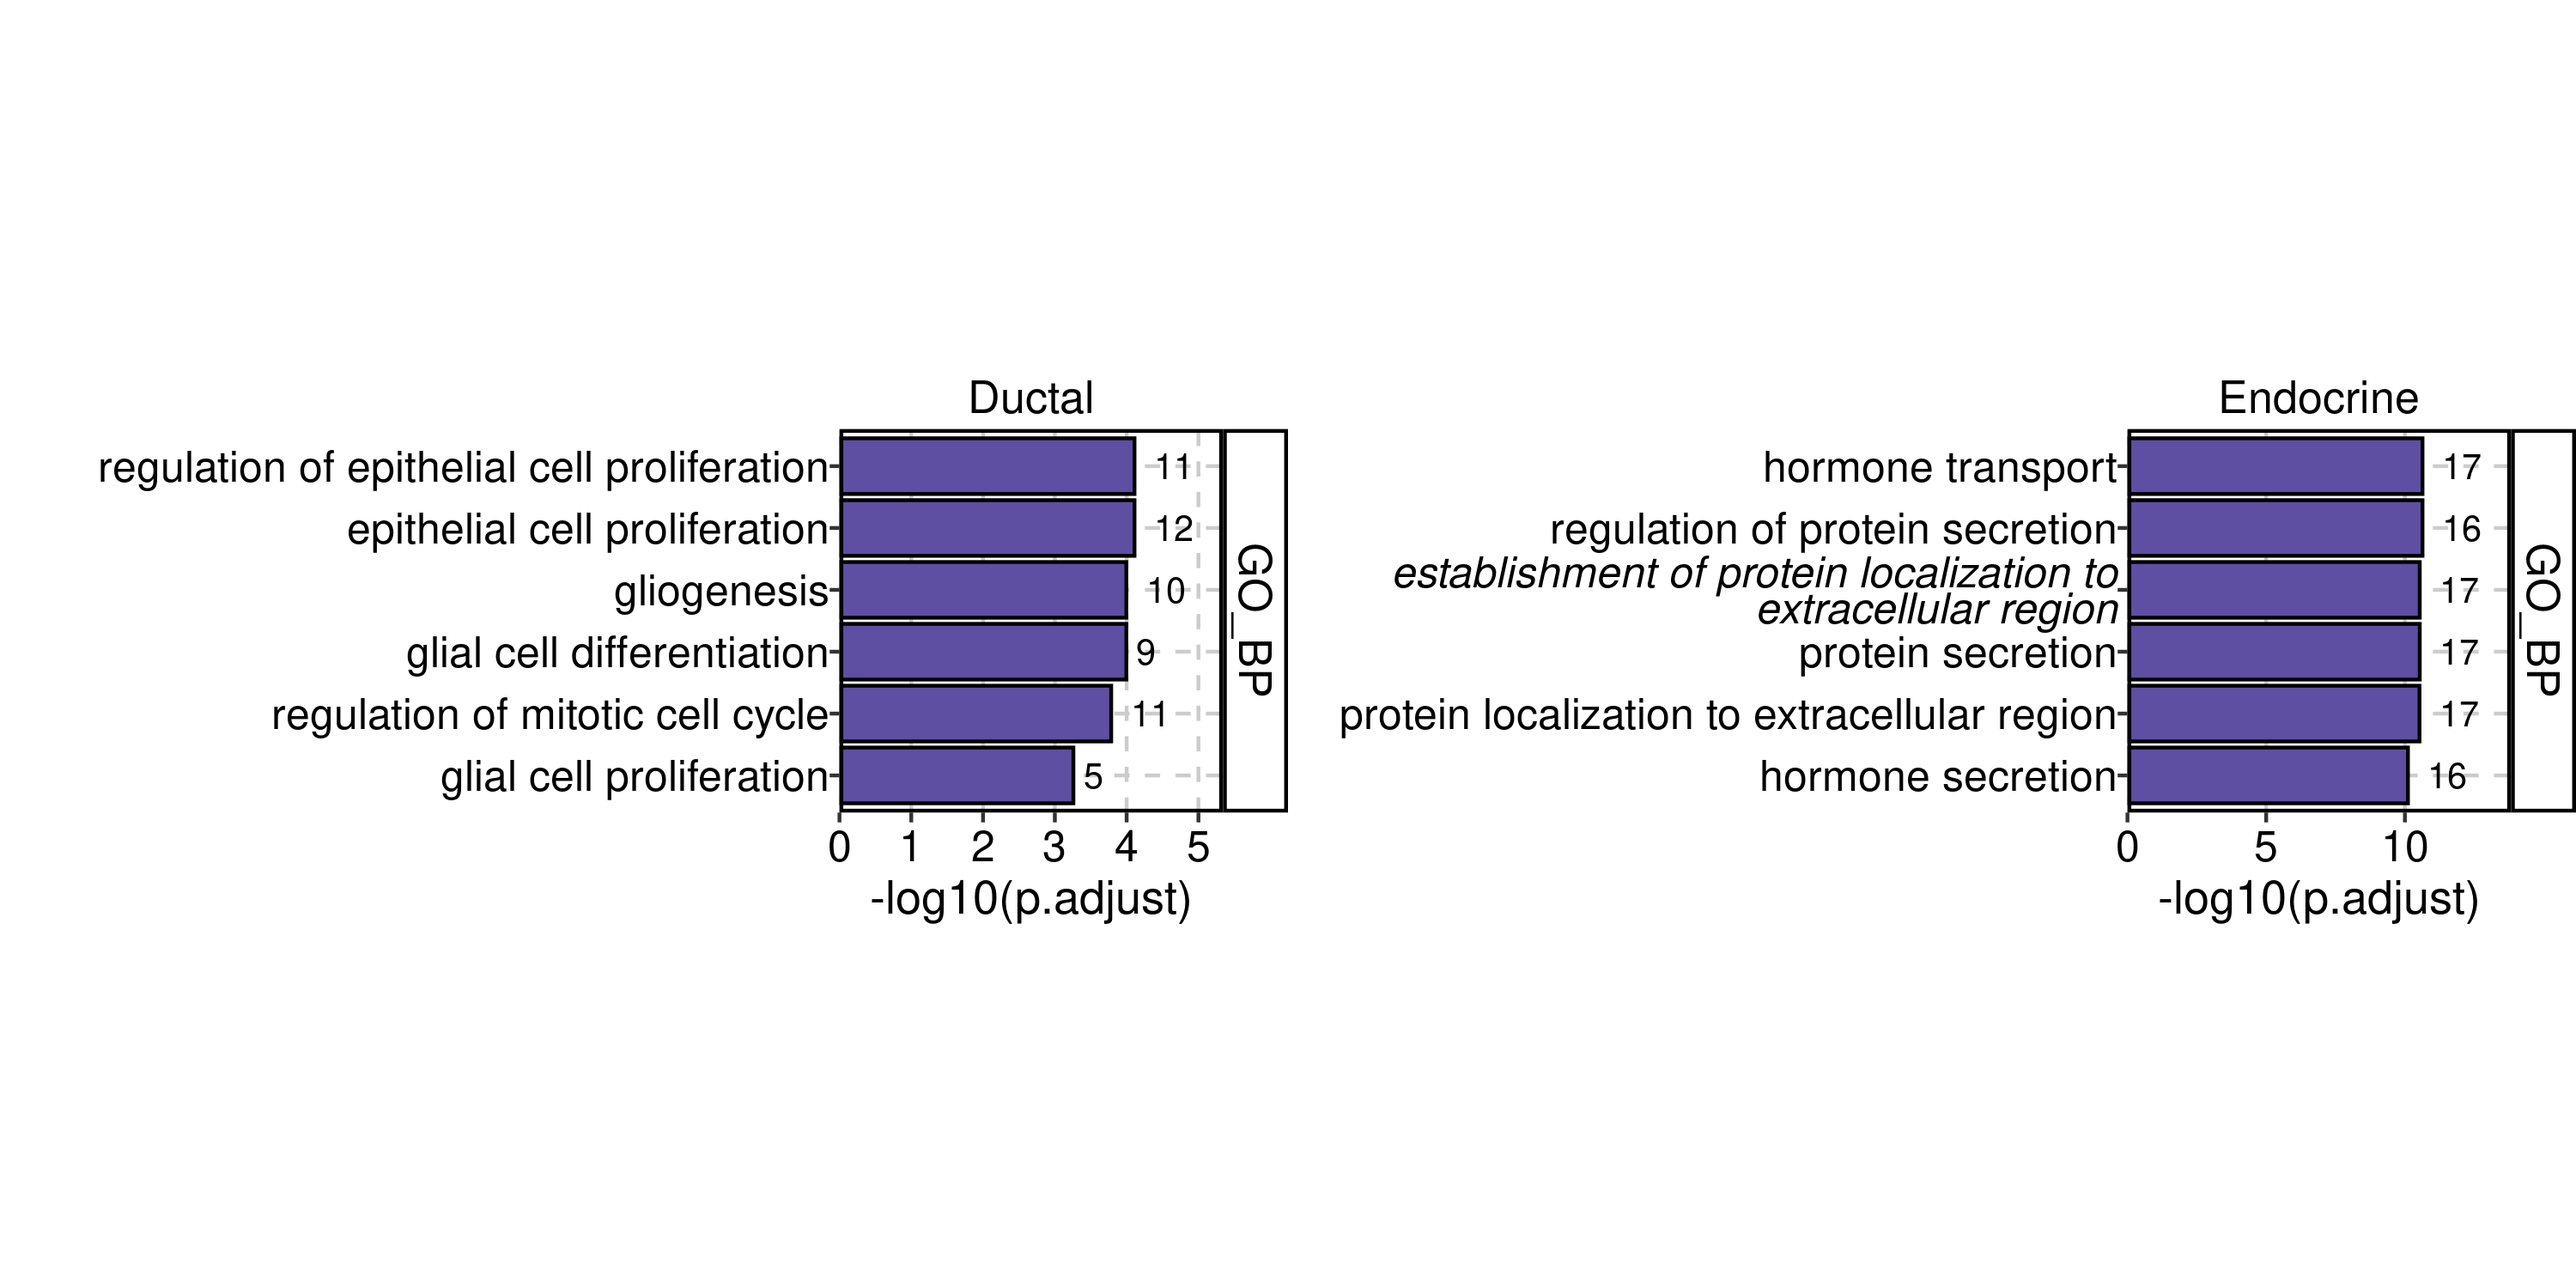
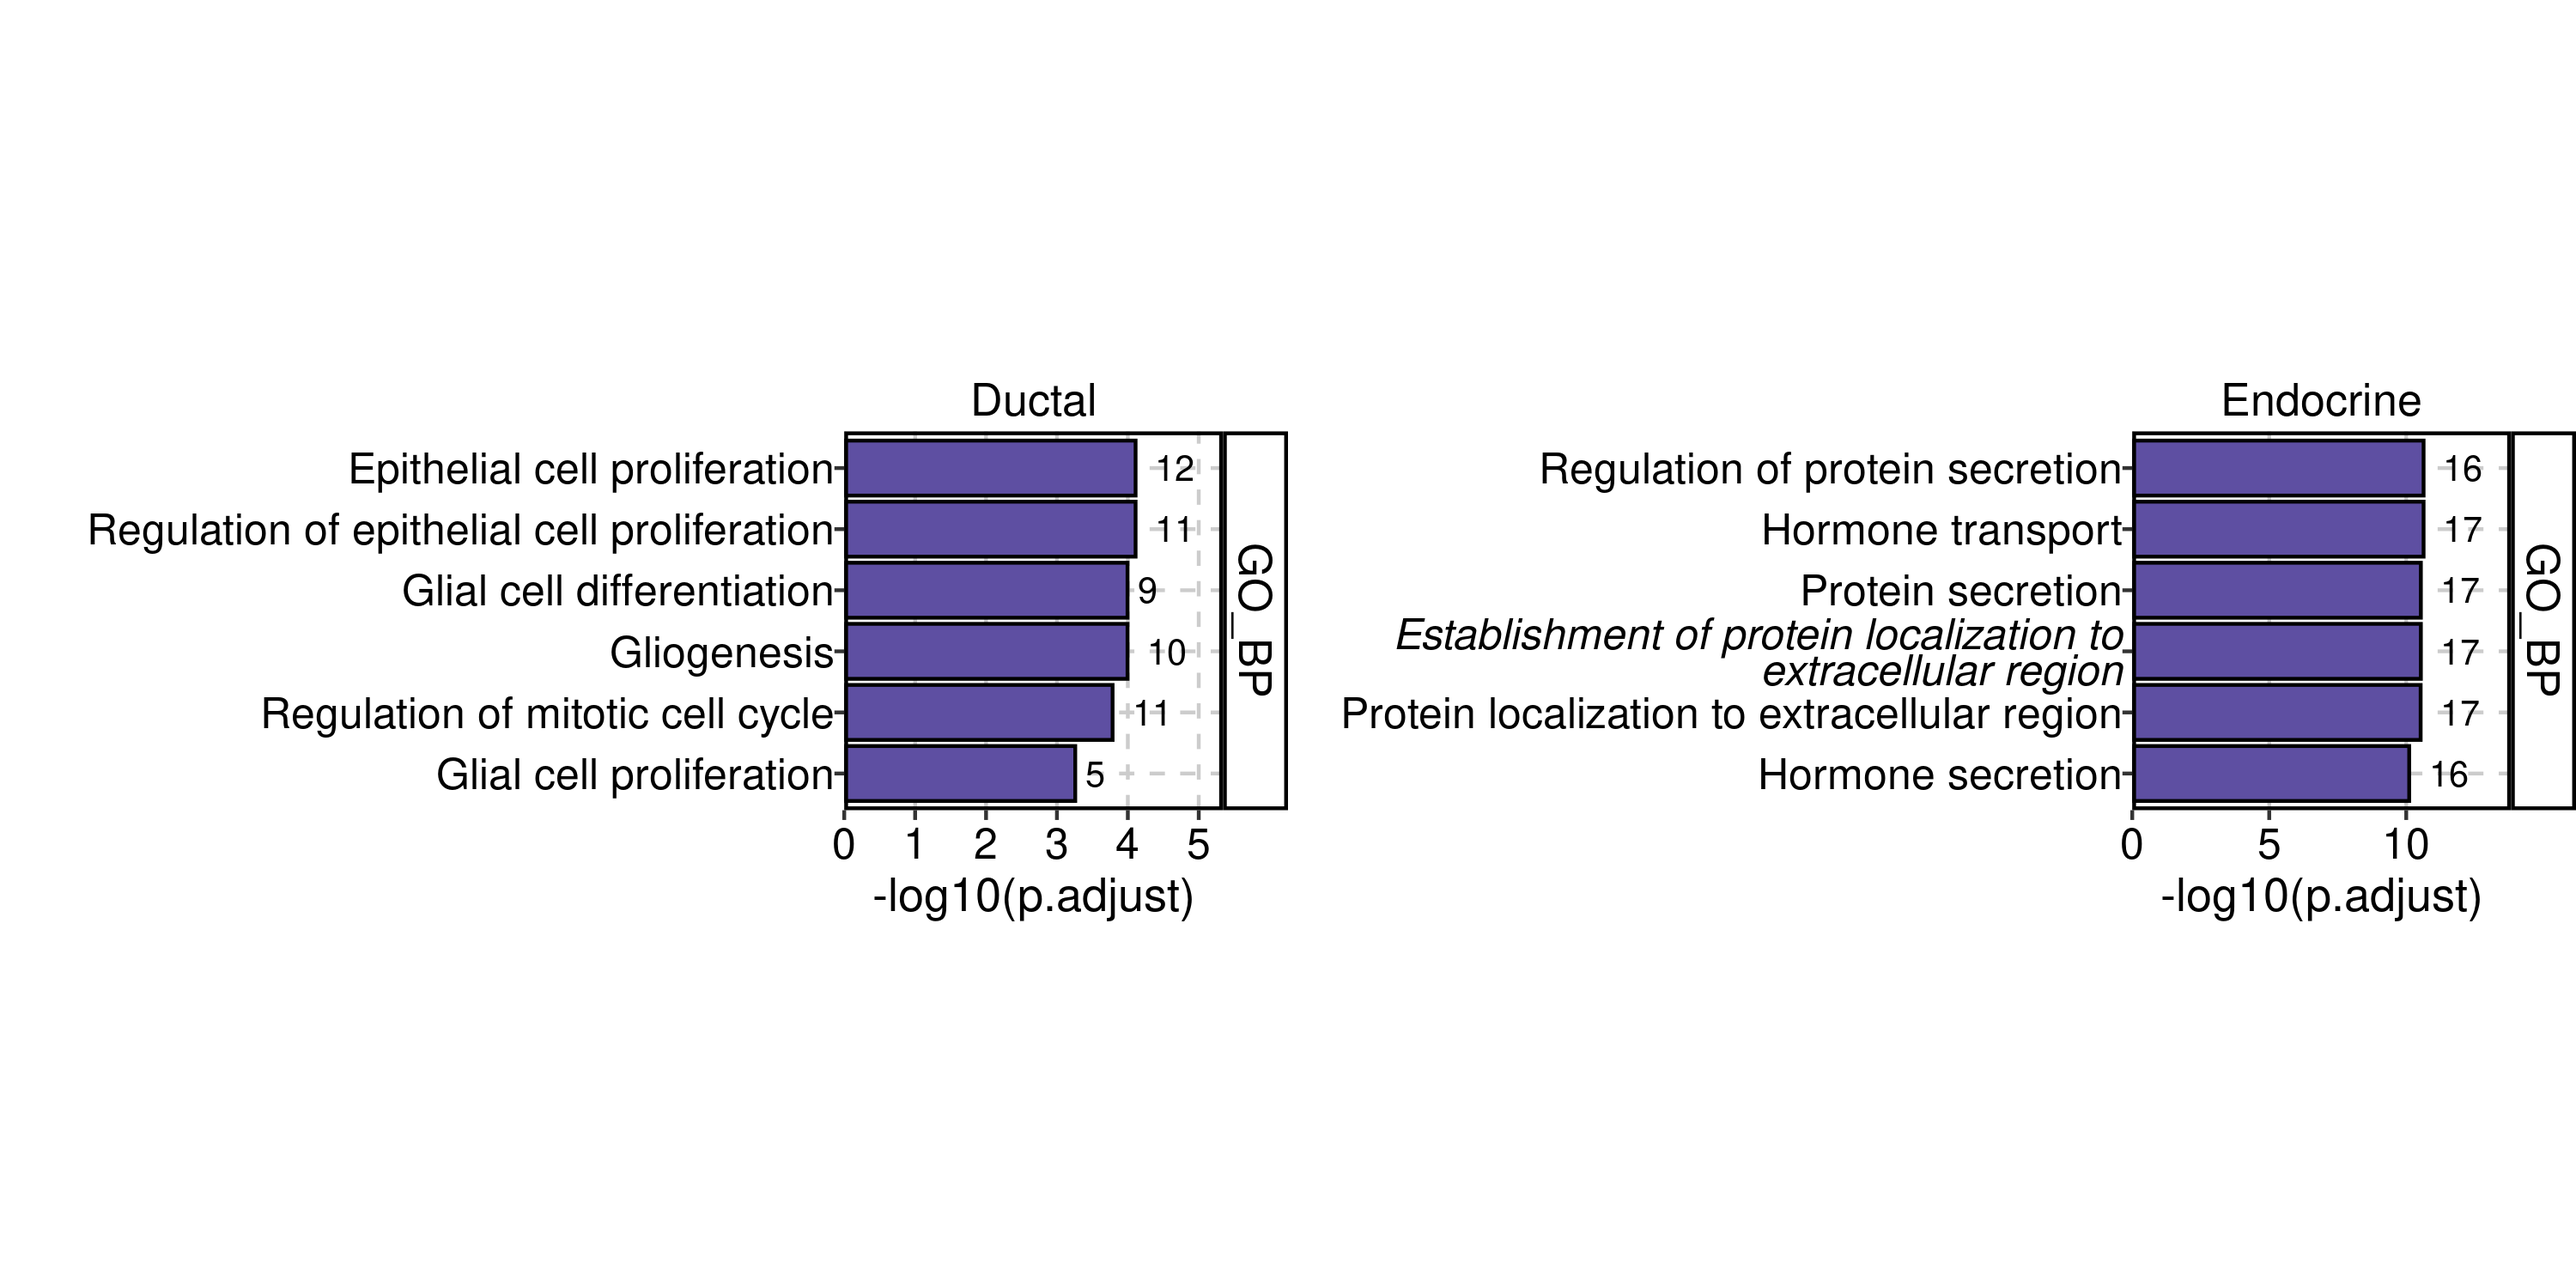
Modified the code in EnrichmentPlot to sort the results to ensure they are consistent with the results in heatmap functions

Changed region(s): [[0.527, 0.276, 1.0, 0.736], [0.031, 0.276, 0.496, 0.736]]

diff --git a/README.md b/README.md
@@ -392,6 +392,7 @@ VolcanoPlot(srt = pancreas_sub, group_by = "CellType")
 ``` r
 DEGs <- pancreas_sub@tools$DEtest_CellType$AllMarkers_wilcox
 DEGs <- DEGs[with(DEGs, avg_log2FC > 1 & p_val_adj < 0.05), ]
+# Annotate features with transcription factors and surface proteins
 pancreas_sub <- AnnotateFeatures(pancreas_sub, species = "Mus_musculus", db = c("TF", "SP"))
 ht <- ExpHeatmap(
   srt = pancreas_sub, group.by = "CellType", features = DEGs$gene, feature_split = DEGs$group1,
